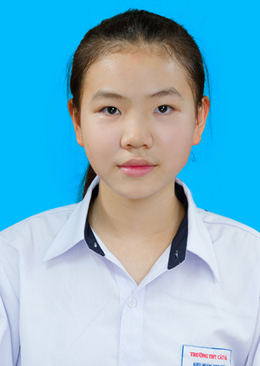
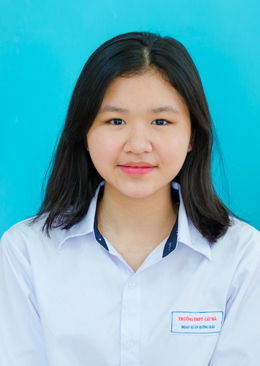
fix: nginx client_max_body_size, edge upload cooldown, middleware endpoint coverage

diff --git a/edge_product/edge-services/Services/Core/SyncService.cs b/edge_product/edge-services/Services/Core/SyncService.cs
@@ -3,6 +3,7 @@ using MaritimeEdge.Data;
 using MaritimeEdge.Models;
 using Maritime.Shared.Models.Sync;
 using Microsoft.Extensions.Logging;
+using System.Collections.Concurrent;
 using System.IO.Compression;
 using System.Security.Cryptography;
 using System.Text;
@@ -49,6 +50,11 @@ public class SyncService : ISyncService
         "employment_document", "health_document"
     };
     
+    // Tracks upload cooldowns to prevent rapid retry of failed uploads (in-memory, per instance).
+    // Key = ManifestId, Value = earliest next retry time (UTC).
+    private static readonly ConcurrentDictionary<Guid, DateTime> _uploadCooldowns = new();
+    private static readonly TimeSpan _uploadFailureCooldown = TimeSpan.FromMinutes(5);
+
     // Network type: read from config (Sync:NetworkType). In production this would be detected from router API.
     // Supported values: None, Satellite_Iridium, Satellite_VSAT, Cellular_4G, Shore_WiFi
     private NetworkType _currentNetwork;
@@ -1174,6 +1180,15 @@ public class SyncService : ISyncService
                 if (bundledManifestIds.Contains(preparedRequest.Request.ManifestId))
                     continue;
 
+                // Skip if this manifest is in a cooldown window from a previous failed upload.
+                if (_uploadCooldowns.TryGetValue(preparedRequest.Request.ManifestId, out var retryAfter) &&
+                    DateTime.UtcNow < retryAfter)
+                {
+                    _logger.LogDebug("Skipping upload for manifest {ManifestId} — in cooldown until {RetryAfter:u}",
+                        preparedRequest.Request.ManifestId, retryAfter);
+                    continue;
+                }
+
                 if (preparedRequest.PreparedFile.SizeBytes >= chunkThresholdBytes)
                 {
                     await UploadFileInChunksAsync(client, baseUrl, nodeId, preparedRequest.Request, preparedRequest.PreparedFile, cancellationToken);
@@ -1210,7 +1225,25 @@ public class SyncService : ISyncService
                     cancellationToken);
                 var uploadResponse = await client.SendAsync(uploadRequest, cancellationToken);
                 if (!uploadResponse.IsSuccessStatusCode)
-                    _logger.LogWarning("Shore rejected file upload for manifest {ManifestId}: {Status}", preparedRequest.Request.ManifestId, uploadResponse.StatusCode);
+                {
+                    var statusCode = (int)uploadResponse.StatusCode;
+                    _logger.LogWarning(
+                        "Shore rejected file upload for manifest {ManifestId} ({Table}/{RecordKey}): HTTP {Status}. " +
+                        "File size: {SizeKB:F0} KB (prepared), {OrigKB:F0} KB (original). Applying {CooldownMin}m cooldown.",
+                        preparedRequest.Request.ManifestId,
+                        preparedRequest.Request.TableName,
+                        preparedRequest.Request.RecordKey,
+                        statusCode,
+                        preparedRequest.PreparedFile.SizeBytes / 1024.0,
+                        preparedRequest.PreparedFile.OriginalSizeBytes / 1024.0,
+                        (int)_uploadFailureCooldown.TotalMinutes);
+
+                    // Apply cooldown — longer backoff for 4xx (configuration/infra error) vs 5xx (transient).
+                    var cooldown = statusCode is >= 400 and < 500
+                        ? _uploadFailureCooldown * 3
+                        : _uploadFailureCooldown;
+                    _uploadCooldowns[preparedRequest.Request.ManifestId] = DateTime.UtcNow.Add(cooldown);
+                }
             }
         }
         catch (Exception ex)

diff --git a/shore_product/backend/Security/SyncRequestVerificationMiddleware.cs b/shore_product/backend/Security/SyncRequestVerificationMiddleware.cs
@@ -72,6 +72,24 @@ public sealed class SyncRequestVerificationMiddleware : IMiddleware
         if (request.Method.Equals(HttpMethods.Post, StringComparison.OrdinalIgnoreCase) && remaining.Equals("/file-upload", StringComparison.OrdinalIgnoreCase))
             return true;
 
+        if (request.Method.Equals(HttpMethods.Post, StringComparison.OrdinalIgnoreCase) && remaining.Equals("/file-upload-bundle", StringComparison.OrdinalIgnoreCase))
+            return true;
+
+        if (request.Method.Equals(HttpMethods.Post, StringComparison.OrdinalIgnoreCase) && remaining.Equals("/file-upload-session", StringComparison.OrdinalIgnoreCase))
+            return true;
+
+        if (request.Method.Equals(HttpMethods.Post, StringComparison.OrdinalIgnoreCase) && remaining.Equals("/file-upload-chunk", StringComparison.OrdinalIgnoreCase))
+            return true;
+
+        if (request.Method.Equals(HttpMethods.Get, StringComparison.OrdinalIgnoreCase) && remaining.Equals("/file-download-session", StringComparison.OrdinalIgnoreCase))
+            return true;
+
+        if (request.Method.Equals(HttpMethods.Get, StringComparison.OrdinalIgnoreCase) && remaining.Equals("/file-download-chunk", StringComparison.OrdinalIgnoreCase))
+            return true;
+
+        if (request.Method.Equals(HttpMethods.Post, StringComparison.OrdinalIgnoreCase) && remaining.Equals("/file-ack", StringComparison.OrdinalIgnoreCase))
+            return true;
+
         return false;
     }
 
